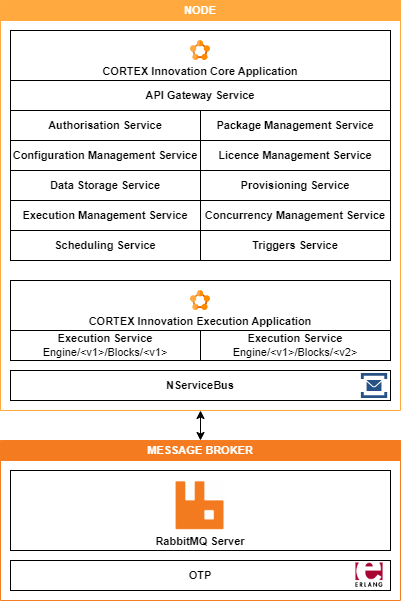
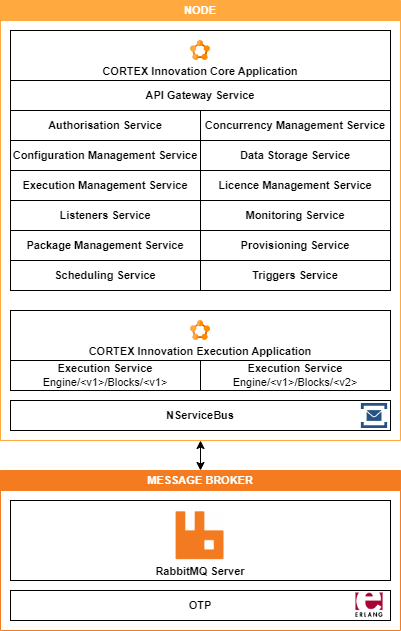
Added Monitoring Service to architecture and updated node detail image to include missing services

Changed region(s): [[0.0, 0.0, 1.0, 0.9884]]

diff --git a/content/en/docs/2024.11/_shared/architecture/components/multi-server.md b/content/en/docs/2024.11/_shared/architecture/components/multi-server.md
@@ -11,6 +11,7 @@
 | &nbsp; &nbsp; > [Execution Management Service][Execution Management Service]         | {{< section "/architecture/components/purpose/execution-management-service.md">}}             | -                           | -                                          |
 | &nbsp; &nbsp; > [Licence Management Service][Licence Management Service]             | {{< section "/architecture/components/purpose/licence-management-service.md" >}}              | -                           | -                                          |
 | &nbsp; &nbsp; > [Listeners Service][Listeners Service]                               | {{< section "/architecture/components/purpose/listeners-service.md" >}}                       | -                           | -                                          |
+| &nbsp; &nbsp; > [Monitoring Service][Monitoring Service]                               | {{< section "/architecture/components/purpose/monitoring-service.md" >}}                       | -                           | -                                          |
 | &nbsp; &nbsp; > [Package Management Service][Package Management Service]             | {{< section "/architecture/components/purpose/package-management-service.md" >}}              | -                           | -                                          |
 | &nbsp; &nbsp; > [Provisioning Service][Provisioning Service]                         | {{< section "/architecture/components/purpose/provisioning-service.md" >}}                    | -                           | -                                          |
 | &nbsp; &nbsp; > [Scheduling Service][Scheduling Service]                             | {{< section "/architecture/components/purpose/scheduling-service.md" >}}                      | -                           | -                                          |
@@ -38,6 +39,7 @@
 [Execution Service]: {{< url path="Cortex.Guides.CortexInnovation.ExecutionApplication.Services.ExecutionService.MainDoc" >}}
 [Licence Management Service]: {{< url path="Cortex.Guides.CortexInnovation.CoreApplication.Services.LicenceManagementService.MainDoc" >}}
 [Listeners Service]: {{< url path="Cortex.Guides.CortexInnovation.CoreApplication.Services.ListenersService.MainDoc" >}}
+[Monitoring Service]: {{< url path="Cortex.Guides.CortexInnovation.CoreApplication.Services.MonitoringService.MainDoc" >}}
 [Package Management Service]: {{< url path="Cortex.Guides.CortexInnovation.CoreApplication.Services.PackageManagementService.MainDoc" >}}
 [Provisioning Service]: {{< url path="Cortex.Guides.CortexInnovation.CoreApplication.Services.ProvisioningService.MainDoc" >}}
 [Scheduling Service]: {{< url path="Cortex.Guides.CortexInnovation.CoreApplication.Services.SchedulingService.MainDoc" >}}

diff --git a/content/en/docs/2024.11/_shared/architecture/components/single-server.md b/content/en/docs/2024.11/_shared/architecture/components/single-server.md
@@ -11,6 +11,7 @@
 | &nbsp; &nbsp; > [Execution Management Service][Execution Management Service]         | {{< section "/architecture/components/purpose/execution-management-service.md">}}             | -                           | -                                          |
 | &nbsp; &nbsp; > [Licence Management Service][Licence Management Service]             | {{< section "/architecture/components/purpose/licence-management-service.md" >}}              | -                           | -                                          |
 | &nbsp; &nbsp; > [Listeners Service][Listeners Service]                               | {{< section "/architecture/components/purpose/listeners-service.md" >}}                       | -                           | -                                          |
+| &nbsp; &nbsp; > [Monitoring Service][Monitoring Service]                               | {{< section "/architecture/components/purpose/monitoring-service.md" >}}                       | -                           | -                                          |
 | &nbsp; &nbsp; > [Package Management Service][Package Management Service]             | {{< section "/architecture/components/purpose/package-management-service.md" >}}              | -                           | -                                          |
 | &nbsp; &nbsp; > [Provisioning Service][Provisioning Service]                         | {{< section "/architecture/components/purpose/provisioning-service.md" >}}                    | -                           | -                                          |
 | &nbsp; &nbsp; > [Scheduling Service][Scheduling Service]                             | {{< section "/architecture/components/purpose/scheduling-service.md" >}}                      | -                           | -                                          |
@@ -36,6 +37,7 @@
 [Execution Service]: {{< url path="Cortex.Guides.CortexInnovation.ExecutionApplication.Services.ExecutionService.MainDoc" >}}
 [Licence Management Service]: {{< url path="Cortex.Guides.CortexInnovation.CoreApplication.Services.LicenceManagementService.MainDoc" >}}
 [Listeners Service]: {{< url path="Cortex.Guides.CortexInnovation.CoreApplication.Services.ListenersService.MainDoc" >}}
+[Monitoring Service]: {{< url path="Cortex.Guides.CortexInnovation.CoreApplication.Services.MonitoringService.MainDoc" >}}
 [Package Management Service]: {{< url path="Cortex.Guides.CortexInnovation.CoreApplication.Services.PackageManagementService.MainDoc" >}}
 [Provisioning Service]: {{< url path="Cortex.Guides.CortexInnovation.CoreApplication.Services.ProvisioningService.MainDoc" >}}
 [Scheduling Service]: {{< url path="Cortex.Guides.CortexInnovation.CoreApplication.Services.SchedulingService.MainDoc" >}}

diff --git a/content/en/docs/2024.11/Guides/cortex-innovation/core-application/services/monitoring-service/_index.md b/content/en/docs/2024.11/Guides/cortex-innovation/core-application/services/monitoring-service/_index.md
@@ -1,0 +1,7 @@
+---
+title: "Monitoring Service"
+linkTitle: "Monitoring Service"
+description: "The Monitoring Service."
+---
+
+{{< workinprogress >}}

diff --git a/content/en/docs/2024.11/_shared/architecture/components/purpose/monitoring-service.md b/content/en/docs/2024.11/_shared/architecture/components/purpose/monitoring-service.md
@@ -1,0 +1,1 @@
+Application Service that monitors flow execution data.
